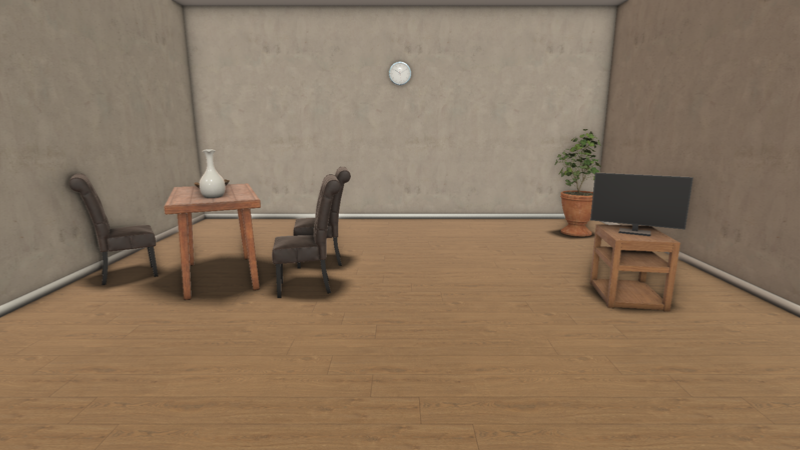
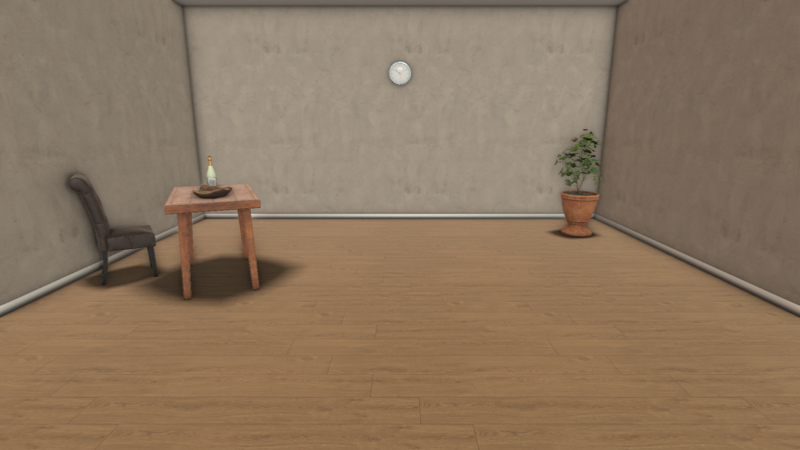
Estudio: escenas v6 (práctica, oficina, cocina-comedor y dormitorio ajustadas por el autor)

Changed region(s): [[0.7188, 0.3733, 0.875, 0.7156], [0.3125, 0.3733, 0.4688, 0.6844], [0.2188, 0.3422, 0.3125, 0.4667]]

diff --git a/scripts/import_estudio2.py b/scripts/import_estudio2.py
@@ -49,7 +49,8 @@ V2 = ("346191e1c0612119c93f0beae5f64578db85046f", "output")
 V3 = ("84eb7c22fb69da962a546065c45675603e60c8ea", "output/estudio_v3")
 V4 = ("01891dabc97e5fa37200d0e108f728ac45865dad", "output/estudio_v4")
 V5 = ("cc09442f804a881cd63ae6b8f877f84905fe7a86", "output/estudio_v5")
-SOURCES = {"E1": V4, "E2": V5, "E3": V3, "E4": V3, "E5": V4, "E6": V4}
+V6 = ("1b2f0182137fba5721b478391990cbf7c3c198cf", "output/estudio_v6")
+SOURCES = {"E1": V6, "E2": V6, "E3": V3, "E4": V3, "E5": V6, "E6": V6}
 REPLACED = [
     {"stimulus_id": sid, "fecha": "2026-10-10", "commit_anterior": V2[0], "sha256_anterior": old,
      "motivo": "ruta libre ambigua o no verificada; v3: sala con sofá divisor y puertas laterales, una sola "
@@ -68,6 +69,19 @@ REPLACED = [
[1 lines of base64/hex data omitted]
      "motivo": "v5: el microondas y el juego de té (clases que el backend descarta) se cambian por una banca y "
                "botellas, clases COCO que el backend sí deja pasar; la narrativa menciona más objetos"}
+] + [
[1 lines of base64/hex data omitted]
+     "motivo": "v6: ajustes del autor; objetos que YOLO no detecta o que el backend descarta se cambian por "
+               "objetos detectables, sin perder la respuesta de cada prueba"},
[1 lines of base64/hex data omitted]
+     "motivo": "v6: ajustes del autor; objetos que YOLO no detecta o que el backend descarta se cambian por "
+               "objetos detectables, sin perder la respuesta de cada prueba"},
[1 lines of base64/hex data omitted]
+     "motivo": "v6: ajustes del autor; objetos que YOLO no detecta o que el backend descarta se cambian por "
+               "objetos detectables, sin perder la respuesta de cada prueba"},
[1 lines of base64/hex data omitted]
+     "motivo": "v6: ajustes del autor; objetos que YOLO no detecta o que el backend descarta se cambian por "
+               "objetos detectables, sin perder la respuesta de cada prueba"}
 ]
 
 
